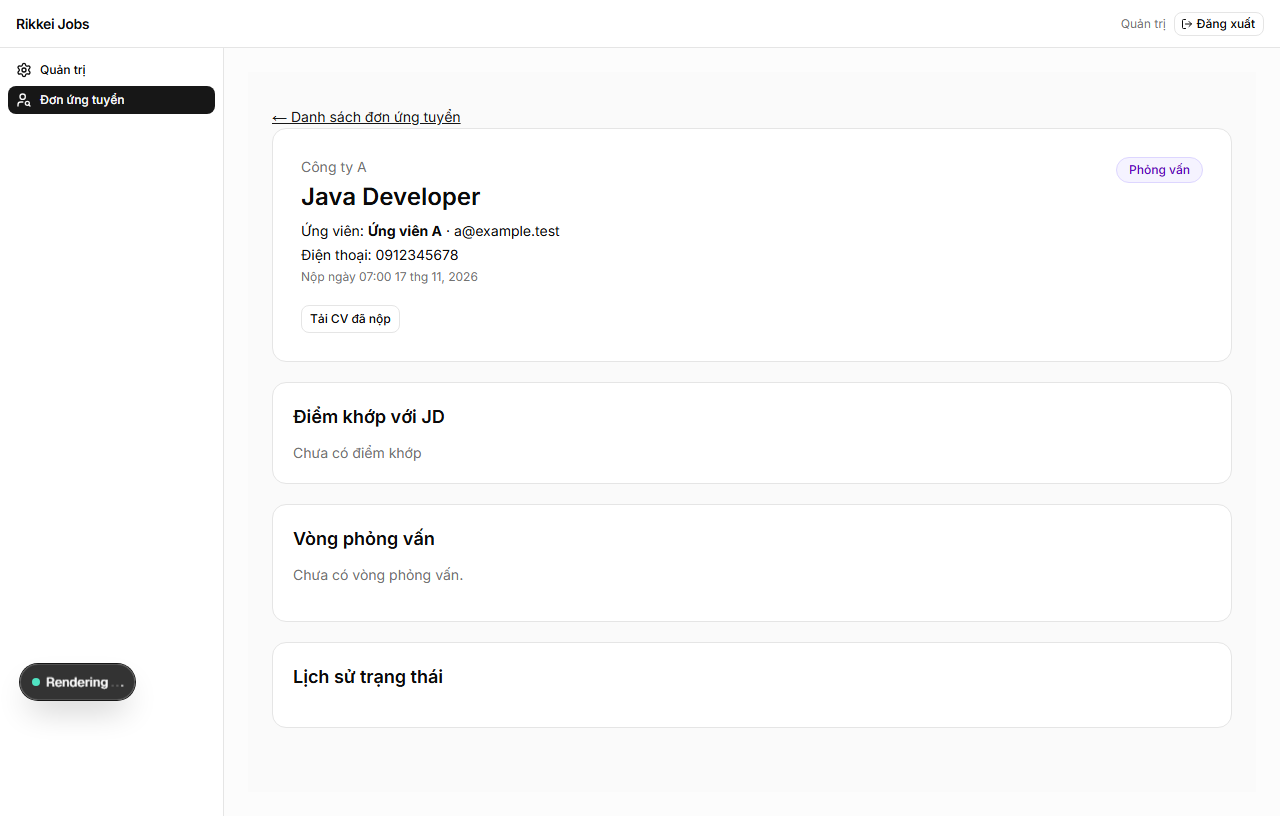
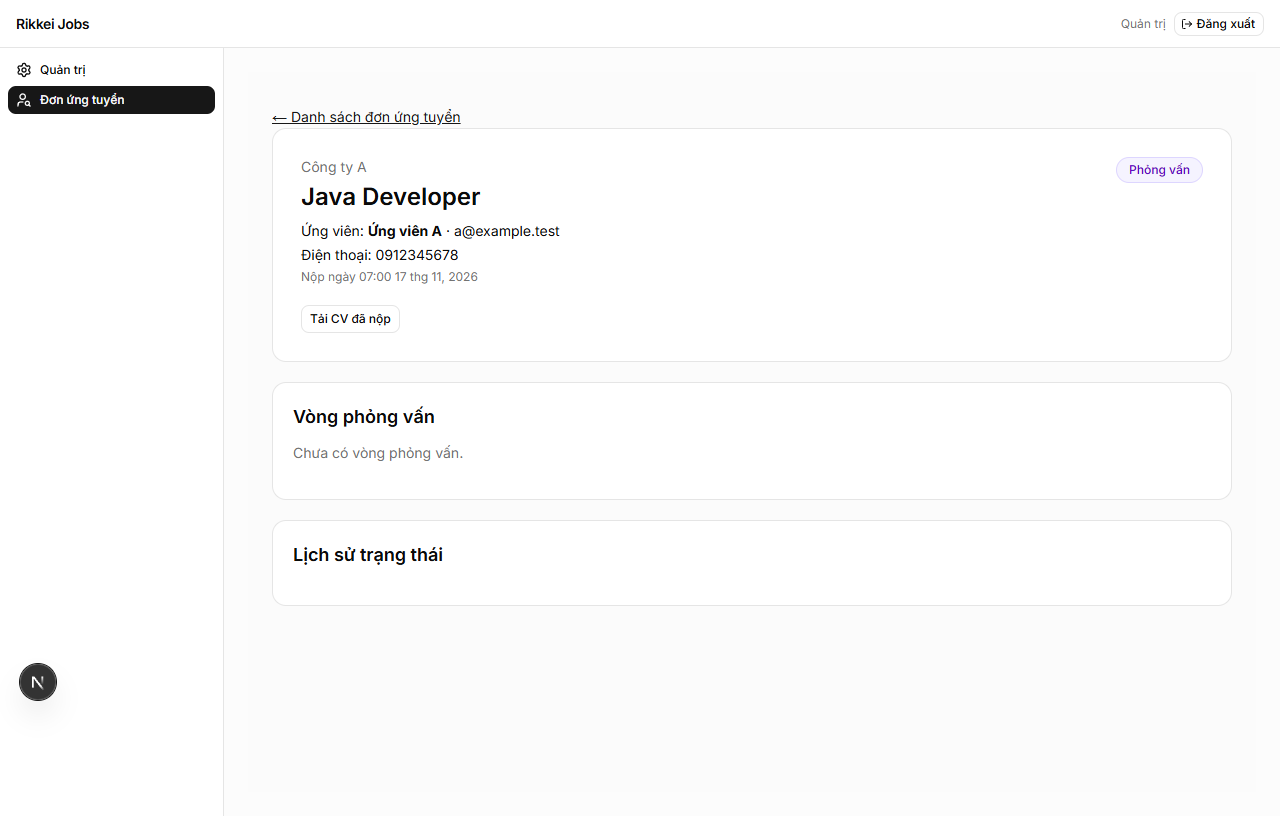
feat(UT-02): add shared advisory score card and safe retry

diff --git a/web/e2e/ut02-match-advisory.spec.ts b/web/e2e/ut02-match-advisory.spec.ts
@@ -1,0 +1,85 @@
+import { test, expect, type Page, type Route } from "@playwright/test";
+import type { MatchScore } from "../src/interface/hr-application";
+const cors={ "Access-Control-Allow-Origin":"*", "Access-Control-Allow-Headers":"Authorization,Content-Type", "Access-Control-Allow-Methods":"GET,POST,OPTIONS" };
+const stamp="2026-11-20T00:00:00Z";
+function score(value=78, below=false): MatchScore { return { score:value, belowMinimum:below, met:[], missing:[{skill:"Java",required:true,minScore:80,candidateScore:value}] }; }
+function detail(id: string, match: MatchScore|null, matchStatus?: string) {
+  return {id,jobId:"job",jobTitle:`Java ${id}`,companyId:"company",companyName:"Company",status:"INTERVIEW",createdAt:stamp,updatedAt:stamp,candidate:{userId:`candidate-${id}`,fullName:`Candidate ${id}`,email:"candidate@test.local"},cvId:"cv",cvSnapshotUrl:"cv",coverLetter:null,match,...(matchStatus?{matchStatus}:{}),rounds:[{id:`round-${id}`,applicationId:id,roundNo:1,name:"Kỹ thuật",interviewerEmail:"hr@test.local",scheduledAt:null,result:"PASS",score:80,note:null,createdAt:stamp}],roundRevisions:[],history:[],allowedTransitions:["REJECTED"],offer:null,onboardConfirmedAt:null};
+}
+async function fixture(page: Page, role: "HR"|"STAFF"|"ADMIN"="HR", initial: MatchScore|null=null, initialStatus?: string) {
+  const user={id:"viewer-old",role,fullName:"Viewer",email:"viewer@test.local",companyId:role==="HR"?"company":null,mustChangePassword:false};
+  await page.addInitScript(user=>localStorage.setItem("rikkei-jobs-auth",JSON.stringify({state:{token:"token-old",user},version:0})),user);
+  const state={user,initial,initialStatus,calls:0,detailCalls:0,retry:async(route: Route)=>route.fulfill({headers:cors,json:{matchStatus:"AVAILABLE",match:score()}})};
+  await page.route("**/api/v1/**",async route=>{
+    if(route.request().method()==="OPTIONS")return route.fulfill({status:204,headers:cors});
+    const path=new URL(route.request().url()).pathname;
+    if(path.endsWith("/auth/me"))return route.fulfill({headers:cors,json:state.user});
+    if(path.endsWith("/auth/login")){state.user={...state.user,id:"viewer-new",fullName:"New Viewer"};return route.fulfill({headers:cors,json:{accessToken:"token-new",user:state.user,mustChangePassword:false}});}
+    if(path.endsWith("/match")){state.calls++;return state.retry(route);}
+    const id=path.match(/\/applications\/(app-[ab])$/)?.[1];
+    if(id){state.detailCalls++;return route.fulfill({headers:cors,json:detail(id,id==="app-b"?score(88):state.initial,id==="app-b"?"AVAILABLE":state.initialStatus)});}
+    if(path.endsWith("/hr/applications"))return route.fulfill({headers:cors,json:{items:[{id:"app-b",jobId:"job",jobTitle:"Java app-b",companyId:"company",companyName:"Company",userId:"candidate-b",candidateName:"Candidate app-b",status:"INTERVIEW",createdAt:stamp,updatedAt:stamp}],total:1,page:1,size:20}});
+    return route.fulfill({headers:cors,json:{}});
+  });
+  return state;
+}
+test("score zero and belowMinimum are advisory; missing metadata remains compatible",async({page})=>{
+  const state=await fixture(page,"HR",score(0,true));
+  await page.goto("/hr/recruitment/app-a");
+  await expect(page.getByText("Điểm phù hợp chỉ mang tính tham khảo")).toBeVisible();
+  await expect(page.getByRole("img",{name:"Điểm phù hợp 0%"})).toBeVisible();
+  await expect(page.getByText("Thiếu kỹ năng bắt buộc tối thiểu")).toBeVisible();
+  await expect(page.getByRole("button",{name:"Gửi offer",exact:true})).toBeEnabled();
+  await expect(page.getByRole("button",{name:"Chuyển sang Không đạt"})).toBeEnabled();expect(state.calls).toBe(0);
+  await page.screenshot({path:"../docs/api/screenshots/ut02-match-available.png",fullPage:true});
+});
+test("empty skill lists are available; ADMIN never shows matching or retry",async({page})=>{
+  const state=await fixture(page,"STAFF",{score:0,belowMinimum:false,met:[],missing:[]},"AVAILABLE");
+  await page.goto("/staff/applications/app-a");await expect(page.getByText("JD chưa khai báo kỹ năng")).toBeVisible();expect(state.calls).toBe(0);
+});
+test("ADMIN does not display the score block",async({page})=>{
+  const state=await fixture(page,"ADMIN",null,"NOT_REQUESTED");await page.goto("/admin/applications/app-a");
+  await expect(page.getByText("Candidate app-a",{exact:true})).toBeVisible();await expect(page.getByRole("heading",{name:"Điểm khớp với JD"})).toHaveCount(0);expect(state.calls).toBe(0);
+});
+test("retry updates only match and preserves unsaved fields; double click sends once",async({page})=>{
+  const state=await fixture(page,"HR",null,"UNAVAILABLE");let release!:()=>void;const wait=new Promise<void>(resolve=>{release=resolve;});
+  state.retry=async route=>{await wait;await route.fulfill({headers:cors,json:{matchStatus:"AVAILABLE",match:score(78)}});};
+  await page.goto("/hr/recruitment/app-a");await expect(page.getByText(/Tạm thời không lấy được điểm phù hợp/)).toBeVisible();
+  await page.getByLabel("Ghi chú chuyển bước").fill("Đang cân nhắc");await page.getByLabel("Tên vòng",{exact:true}).fill("Vòng mới");await page.getByLabel("Lương gross/tháng (VND)").fill("12000000");
+  await page.getByRole("button",{name:"Thử lại",exact:true}).dblclick();await expect.poll(()=>state.calls).toBe(1);
+  await expect(page.getByRole("button",{name:"Gửi offer",exact:true})).toBeEnabled();release();
+  await expect(page.getByRole("img",{name:"Điểm phù hợp 78%"})).toBeVisible();
+  await expect(page.getByLabel("Ghi chú chuyển bước")).toHaveValue("Đang cân nhắc");await expect(page.getByLabel("Tên vòng",{exact:true})).toHaveValue("Vòng mới");await expect(page.getByLabel("Lương gross/tháng (VND)")).toHaveValue("12.000.000");expect(state.detailCalls).toBe(1);
+  await page.setViewportSize({width:390,height:844});
+  await page.evaluate(()=>{window.getSelection()?.removeAllRanges();window.scrollTo(0,0);});
+  expect(await page.evaluate(()=>document.documentElement.scrollWidth<=window.innerWidth)).toBe(true);
+  await page.screenshot({path:"../docs/api/screenshots/ut02-match-mobile.png",fullPage:true});
+});
+test("retry failure clears old score and preserves permission error",async({page})=>{
+  const state=await fixture(page,"HR",score(78),"AVAILABLE");
+  state.retry=async route=>route.fulfill({status:403,headers:cors,json:{code:"FORBIDDEN",message:"Bạn không có quyền xem điểm."}});
+  await page.goto("/hr/recruitment/app-a");await expect(page.getByRole("img",{name:"Điểm phù hợp 78%"})).toBeVisible();await page.getByRole("button",{name:"Tải lại điểm",exact:true}).click();
+  await expect(page.getByText("Bạn không có quyền xem điểm.")).toBeVisible();await expect(page.getByRole("img",{name:/Điểm phù hợp/})).toHaveCount(0);
+  await expect(page.getByRole("button",{name:"Gửi offer",exact:true})).toBeEnabled();
+  await page.screenshot({path:"../docs/api/screenshots/ut02-match-unavailable.png",fullPage:true});
+  state.initial=score(86);state.initialStatus="AVAILABLE";
+  await page.getByRole("button",{name:"Lưu kết quả",exact:true}).click();
+  await expect(page.getByRole("img",{name:"Điểm phù hợp 86%"})).toBeVisible();
+  await expect(page.getByText("Bạn không có quyền xem điểm.")).toHaveCount(0);
+});
+test("late retry for old application cannot replace new application's score",async({page})=>{
+  const state=await fixture(page,"HR",null,"UNAVAILABLE");let release!:()=>void,finished!:()=>void;const hold=new Promise<void>(r=>{release=r;}),done=new Promise<void>(r=>{finished=r;});
+  state.retry=async route=>{await hold;try{await route.fulfill({headers:cors,json:{matchStatus:"AVAILABLE",match:score(55)}});}catch{}finally{finished();}};
+  await page.goto("/hr/recruitment/app-a");await page.getByRole("button",{name:"Thử lại",exact:true}).click();await expect.poll(()=>state.calls).toBe(1);
+  await page.getByRole("link",{name:"← Danh sách đơn ứng tuyển"}).click();await page.getByRole("link").filter({hasText:"Candidate app-b"}).click();
+  await expect(page.getByRole("img",{name:"Điểm phù hợp 88%"})).toBeVisible();release();await done;
+  await expect(page.getByRole("img",{name:"Điểm phù hợp 88%"})).toBeVisible();await expect(page.getByRole("img",{name:"Điểm phù hợp 55%"})).toHaveCount(0);
+});
+test("late retry from previous login cannot affect the next viewer",async({page})=>{
+  const state=await fixture(page,"HR",null,"UNAVAILABLE");let release!:()=>void,finished!:()=>void;const hold=new Promise<void>(r=>{release=r;}),done=new Promise<void>(r=>{finished=r;});
+  state.retry=async route=>{await hold;try{await route.fulfill({headers:cors,json:{matchStatus:"AVAILABLE",match:score(55)}});}catch{}finally{finished();}};
+  await page.goto("/hr/recruitment/app-a");await page.getByRole("button",{name:"Thử lại",exact:true}).click();await expect.poll(()=>state.calls).toBe(1);
+  await page.getByRole("button",{name:"Đăng xuất"}).click();await page.getByRole("tab",{name:"Doanh nghiệp",exact:true}).click();await page.getByLabel("Email",{exact:true}).fill("new@test.local");await page.getByLabel("Mật khẩu",{exact:true}).fill("Password123!");await page.getByRole("button",{name:"Đăng nhập",exact:true}).click();
+  await page.getByRole("navigation",{name:"Menu chính"}).getByRole("link",{name:"Tuyển dụng",exact:true}).click();await page.getByRole("link").filter({hasText:"Candidate app-b"}).click();await expect(page.getByRole("img",{name:"Điểm phù hợp 88%"})).toBeVisible();
+  release();await done;await expect(page.getByRole("img",{name:"Điểm phù hợp 55%"})).toHaveCount(0);
+});

diff --git a/web/src/app/components/recruitment/match-card.tsx b/web/src/app/components/recruitment/match-card.tsx
@@ -1,13 +1,54 @@
-import type { MatchScore } from "@/interface/hr-application";
+"use client";
+import { useEffect, useRef, useState } from "react";
+import { MatchScoreCard } from "@/app/components/match/match-score-card";
+import { Button } from "@/app/components/ui/button";
+import { useAuthStore } from "@/hooks/use-auth-store";
+import type { MatchScore, MatchStatus, MatchLookupResponse } from "@/interface/hr-application";
+import { ApiError } from "@/services/api";
+import { hrApplicationService } from "@/services/hr-application.service";
 
-export function MatchCard({ match }: { match: MatchScore | null }) {
-  return <section className="rounded-xl border bg-background p-5"><h2 className="text-lg font-semibold">Điểm khớp với JD</h2>
-    {!match ? <p className="mt-3 text-sm text-muted-foreground">Chưa có điểm khớp</p> : <div className="mt-4 flex flex-wrap gap-6">
-      <div className="flex h-28 w-28 shrink-0 items-center justify-center rounded-full border-8 border-primary/30 text-2xl font-bold" aria-label={`Điểm khớp ${match.score}%`}>
-        {Math.round(match.score)}%</div>
-      <div className="min-w-0 flex-1 space-y-3">{match.belowMinimum && <p className="text-sm font-medium text-red-700">Có kỹ năng bắt buộc dưới mức tối thiểu.</p>}
-        {match.met.map((item, index) => <p key={`met-${index}`} className="text-sm text-emerald-700">✓ {item.skill}: {item.candidateScore}/{item.minScore}</p>)}
-        {match.missing.map((item, index) => <p key={`missing-${index}`} className="text-sm text-red-700">✕ {item.skill}: {item.candidateScore}/{item.minScore} · thiếu {Math.max(0, item.minScore - item.candidateScore)} điểm</p>)}
-      </div></div>}
+type Scope = { applicationId: string; viewerId: string | undefined; token: string | null };
+function sameScope(a: Scope | null | undefined, b: Scope) {
+  return a?.applicationId === b.applicationId && a?.viewerId === b.viewerId && a?.token === b.token;
+}
+export function MatchCard({ applicationId, match, matchStatus, onMatchChanged }: {
+  applicationId: string; match: MatchScore | null; matchStatus?: MatchStatus; onMatchChanged: (value: MatchLookupResponse) => void;
+}) {
+  const viewerId = useAuthStore(state => state.user?.id), token = useAuthStore(state => state.token);
+  const scope: Scope = { applicationId, viewerId, token };
+  const flight = useRef<{ scope: Scope; controller: AbortController } | null>(null);
+  const [pendingScope, setPendingScope] = useState<Scope | null>(null);
+  const [retryError, setRetryError] = useState<{ scope: Scope; error: unknown } | null>(null);
+  useEffect(() => () => { flight.current?.controller.abort(); flight.current = null; }, [applicationId, viewerId, token]);
+  async function retry() {
+    if (flight.current && sameScope(flight.current.scope, scope)) return;
+    flight.current?.controller.abort();
+    const request = { scope, controller: new AbortController() }; flight.current = request;
+    setPendingScope(scope); setRetryError(null);
+    function current() {
+      const auth = useAuthStore.getState();
+      return flight.current === request && !request.controller.signal.aborted && auth.user?.id === scope.viewerId && auth.token === scope.token;
+    }
+    try {
+      const result = await hrApplicationService.match(applicationId, request.controller.signal);
+      if (current()) onMatchChanged(result);
+    } catch (error) {
+      if (current()) { setRetryError({ scope, error }); onMatchChanged({ matchStatus: "UNAVAILABLE", match: null }); }
+    } finally {
+      if (current()) { flight.current = null; setPendingScope(null); }
+    }
+  }
+  const status = matchStatus ?? (match ? "AVAILABLE" : "UNAVAILABLE");
+  const pending = sameScope(pendingScope, scope);
+  const error = status === "UNAVAILABLE" && retryError && sameScope(retryError.scope, scope) ? retryError.error : null;
+  if (status === "NOT_REQUESTED") return null;
+  const unavailable = status !== "AVAILABLE" || !match || Boolean(error);
+  return <section className="rounded-xl border bg-background p-5" aria-label="Điểm khớp với JD">
+    <h2 className="text-lg font-semibold">Điểm khớp với JD</h2>
+    <p className="mt-2 text-sm text-muted-foreground">Điểm phù hợp chỉ mang tính tham khảo</p>
+    <div className="mt-4"><MatchScoreCard match={unavailable ? undefined : match} isLoading={pending}
+      error={unavailable ? error ?? new ApiError(503, "MATCH_UNAVAILABLE", "Tạm thời không lấy được điểm phù hợp. Bạn vẫn có thể tiếp tục xử lý đơn.") : undefined}
+      onRetry={() => void retry()} /></div>
+    {!pending && !unavailable && <Button type="button" variant="outline" className="mt-3" onClick={retry}>Tải lại điểm</Button>}
   </section>;
 }

diff --git a/web/src/app/components/recruitment/application-workflow-detail.tsx b/web/src/app/components/recruitment/application-workflow-detail.tsx
@@ -6,8 +6,9 @@ import { Button } from "@/app/components/ui/button";
 import { ApplicationStatusBadge } from "@/app/components/applications/application-status-badge";
 import { APPLICATION_STATUS, formatApplicationDate } from "@/config/application-status";
 import { useAuthGuard } from "@/hooks/use-auth-guard";
+import { useAuthStore } from "@/hooks/use-auth-store";
 import type { ApplicationStatus } from "@/interface/application";
-import type { HrApplicationDetail } from "@/interface/hr-application";
+import type { HrApplicationDetail, MatchLookupResponse } from "@/interface/hr-application";
 import { ApiError, getErrorMessage } from "@/services/api";
 import { hrApplicationService } from "@/services/hr-application.service";
 import { InterviewRounds } from "./interview-rounds";
@@ -16,7 +17,9 @@ import { OfferPanel } from "./offer-panel";
 
 export function ApplicationWorkflowDetail({ id, role }: { id: string; role: "HR" | "STAFF" | "ADMIN" }) {
   const allowed = useAuthGuard({ roles: [role] });
-  const [application, setApplication] = useState<HrApplicationDetail | null>(null);
+  const viewerId = useAuthStore(state => state.user?.id), token = useAuthStore(state => state.token);
+  const [snapshot, setSnapshot] = useState<{ application: HrApplicationDetail; viewerId: string | undefined; token: string | null } | null>(null);
+  const application = snapshot?.viewerId === viewerId && snapshot?.token === token && snapshot?.application.id === id ? snapshot.application : null;
   const [error, setError] = useState("");
   const [mutationError, setMutationError] = useState("");
   const [note, setNote] = useState("");
@@ -27,10 +30,15 @@ export function ApplicationWorkflowDetail({ id, role }: { id: string; role: "HR"
   useEffect(() => {
     if (!allowed) return;
     let active = true;
-    hrApplicationService.detail(id).then(value => { if (active) { setApplication(value); setError(""); } })
+    const controller = new AbortController();
+    hrApplicationService.detail(id, controller.signal).then(value => { if (active) { setSnapshot({ application: value, viewerId, token }); setError(""); } })
       .catch(reason => { if (active) setError(getErrorMessage(reason)); });
-    return () => { active = false; };
-  }, [allowed, id, version]);
+    return () => { active = false; controller.abort(); };
+  }, [allowed, id, version, viewerId, token]);
+  function updateMatch(value: MatchLookupResponse) {
+    setSnapshot(current => current?.application.id === id && current.viewerId === viewerId && current.token === token
+      ? { ...current, application: { ...current.application, match: value.match, matchStatus: value.matchStatus } } : current);
+  }
   async function transition(toStatus: ApplicationStatus) {
     setBusy(true); setMutationError("");
     try { await hrApplicationService.transition(id, toStatus, note); setNote(""); reload(); }
@@ -66,7 +74,7 @@ export function ApplicationWorkflowDetail({ id, role }: { id: string; role: "HR"
         <Button variant="outline" className="mt-5" disabled={downloading} onClick={downloadCv}>{downloading ? "Đang tải…" : "Tải CV đã nộp"}</Button>
         {application.coverLetter && <div className="mt-5 border-t pt-4"><h2 className="font-medium">Thư giới thiệu</h2><p className="mt-2 whitespace-pre-wrap break-words text-sm">{application.coverLetter}</p></div>}
       </section>
-      <MatchCard match={application.match} />
+      {role !== "ADMIN" && <MatchCard key={`${viewerId}:${id}`} applicationId={id} match={application.match} matchStatus={application.matchStatus} onMatchChanged={updateMatch} />}
       {role === "HR" && application.allowedTransitions.length > 0 && <section className="rounded-xl border bg-background p-5"><h2 className="font-semibold">Chuyển bước</h2>
         <label className="mt-3 block text-sm">Ghi chú nội bộ<textarea aria-label="Ghi chú chuyển bước" value={note} onChange={e => setNote(e.target.value)} maxLength={1000}
           className="mt-1 w-full rounded-lg border bg-background px-3 py-2" /></label>

diff --git a/web/src/services/hr-application.service.ts b/web/src/services/hr-application.service.ts
@@ -1,6 +1,6 @@
 import { api } from "@/services/api";
 import type { ApplicationStatus } from "@/interface/application";
-import type { HrApplicationDetail, HrApplicationPage, InterviewRound, MentorRoundPage, RoundResult } from "@/interface/hr-application";
+import type { HrApplicationDetail, HrApplicationPage, InterviewRound, MentorRoundPage, RoundResult, MatchLookupResponse } from "@/interface/hr-application";
 import type { CreateOfferPayload, EmploymentRecord, Offer } from "@/interface/offer";
 
 const root = "/recruitment";
@@ -12,7 +12,8 @@ export const hrApplicationService = {
   async listStaff(params: { companyId?: string; jobId?: string; status?: ApplicationStatus; page?: number; size?: number }) {
     return (await api.get<HrApplicationPage>(`${root}/staff/applications`, { params })).data;
   },
-  async detail(id: string) { return (await api.get<HrApplicationDetail>(idPath(id))).data; },
+  async detail(id: string, signal?: AbortSignal) { return (await api.get<HrApplicationDetail>(idPath(id), { signal })).data; },
+  async match(id: string, signal?: AbortSignal) { return (await api.get<MatchLookupResponse>(`${idPath(id)}/match`, { signal })).data; },
   async sendOffer(id: string, payload: CreateOfferPayload) {
     return (await api.post<Offer>(`${idPath(id)}/offer`, payload)).data;
   },

diff --git a/web/src/interface/hr-application.ts b/web/src/interface/hr-application.ts
@@ -18,6 +18,8 @@ export interface MatchSkill {
 export interface MatchScore {
   score: number; belowMinimum: boolean; met: MatchSkill[]; missing: MatchSkill[];
 }
+export type MatchStatus = "AVAILABLE" | "UNAVAILABLE" | "NOT_REQUESTED";
+export interface MatchLookupResponse { matchStatus: MatchStatus; match: MatchScore | null }
 export interface HrApplicationSummary {
   id: string; jobId: string; jobTitle: string; companyId: string; companyName: string;
   userId: string; candidateName: string; status: ApplicationStatus; createdAt: string; updatedAt: string;
@@ -28,7 +30,7 @@ export interface HrApplicationDetail {
   status: ApplicationStatus; createdAt: string; updatedAt: string;
   candidate: { userId: string; fullName: string; email: string; phone?: string | null };
   cvId: string; cvSnapshotUrl: string; coverLetter: string | null;
-  match: MatchScore | null; rounds: InterviewRound[]; roundRevisions: RoundRevision[];
+  match: MatchScore | null; matchStatus?: MatchStatus; rounds: InterviewRound[]; roundRevisions: RoundRevision[];
   history: ApplicationHistoryItem[]; allowedTransitions: ApplicationStatus[];
   offer: Offer | null;
   onboardConfirmedAt: string | null;

diff --git a/web/e2e/ut02-hr-workflow.spec.ts b/web/e2e/ut02-hr-workflow.spec.ts
@@ -46,7 +46,7 @@ test("UT-02 HR chuyển bước và chỉ thêm vòng khi đã phỏng vấn", a
     return route.fulfill({ headers: cors, json: {} });
   });
   await page.goto(`/hr/recruitment/${id}`);
-  await expect(page.getByText("Chưa có điểm khớp")).toBeVisible();
+  await expect(page.getByText(/Tạm thời không lấy được điểm phù hợp/)).toBeVisible();
   await expect(page.getByRole("button", { name: "Thêm vòng" })).toHaveCount(0);
   await expect(page.getByRole("button", { name: "Chuyển sang Phỏng vấn" })).toHaveCount(0);
   await page.getByRole("button", { name: "Chuyển sang Sàng lọc" }).click();
